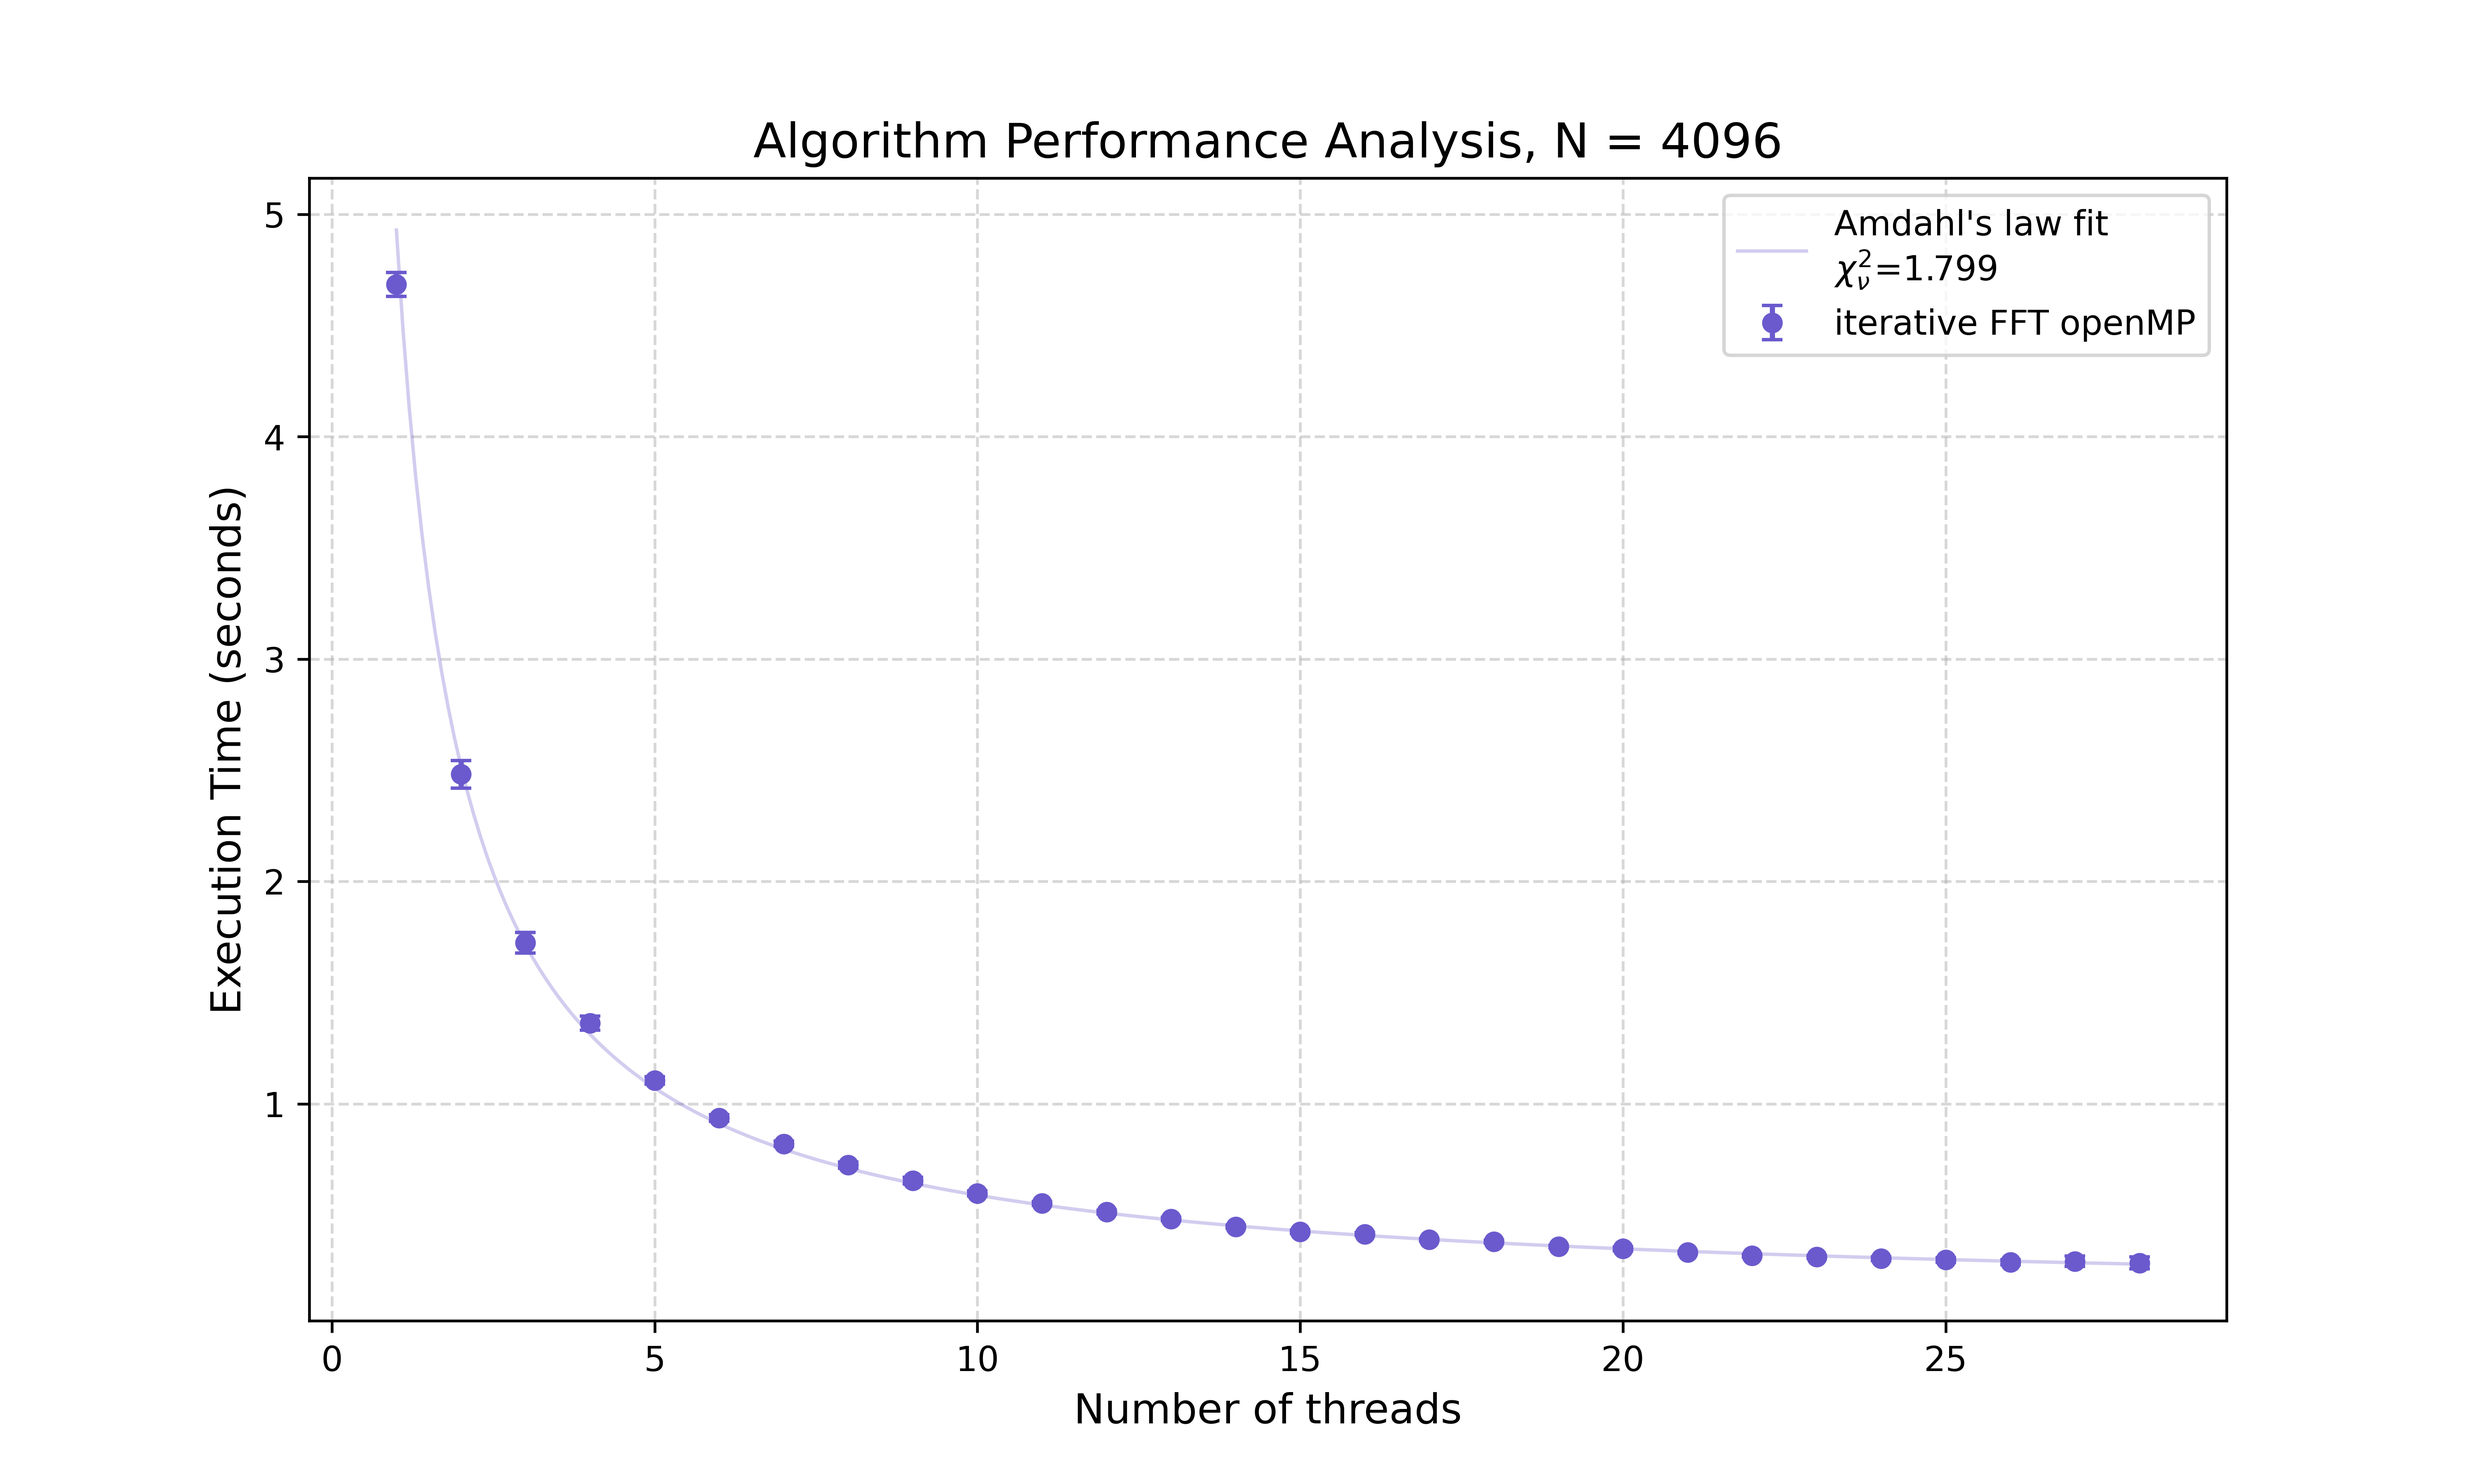
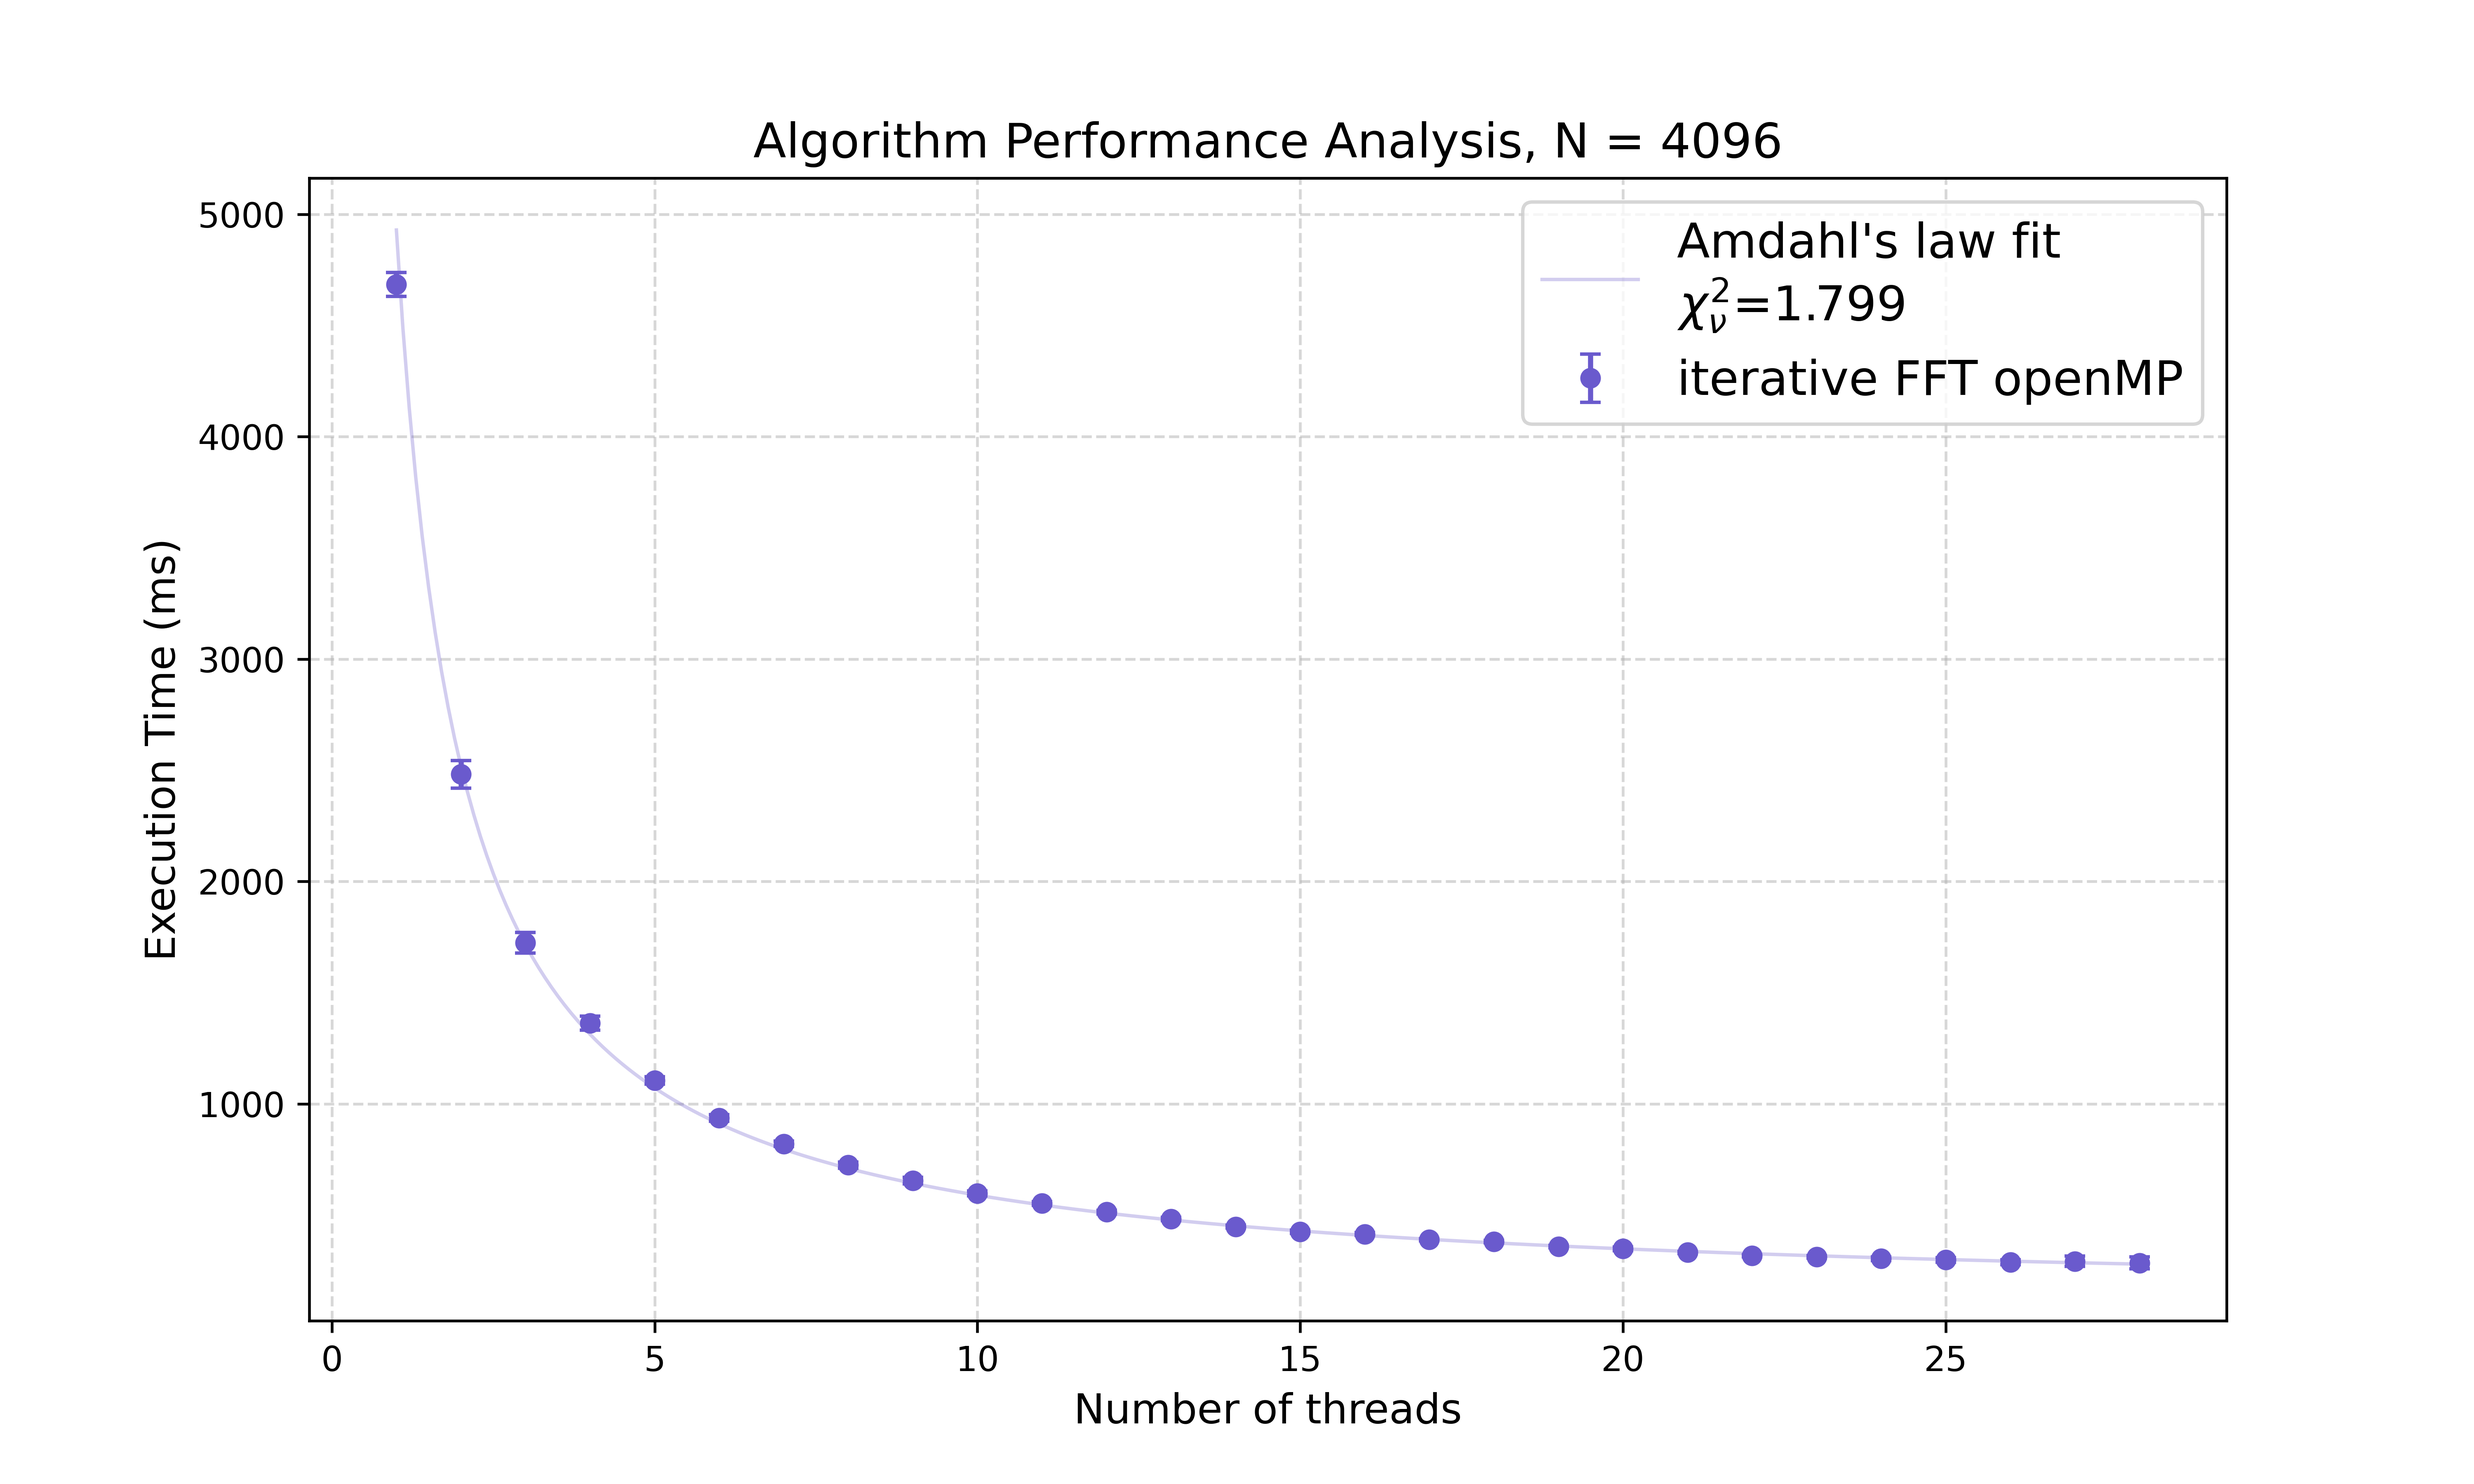
fix bench openmp time vs nth

diff --git a/plot/plt_benchmark_openmp_nth.py b/plot/plt_benchmark_openmp_nth.py
@@ -28,6 +28,9 @@ n_threads = np.unique(df['NThreads'])
 mean_time = df[df['N']==n].groupby('NThreads')['ExecutionTime'].mean().values
 std_time = df[df['N']==n].groupby('NThreads')['ExecutionTime'].std().values
 
+mean_time*=1e3
+std_time*=1e3
+
 print(np.min(mean_time), n_threads[np.argmin(mean_time)])
 
 (a, b), _, infodict, _, _ = scipy.optimize.curve_fit(model, n_threads, mean_time, sigma=std_time, full_output=True)
@@ -56,9 +59,9 @@ plt.plot(x, a / x + b,
 
 plt.title(f'Algorithm Performance Analysis, N = {n}', fontsize=14)
 plt.xlabel('Number of threads', fontsize=12)
-plt.ylabel('Execution Time (seconds)', fontsize=12)
+plt.ylabel('Execution Time (ms)', fontsize=12)
 # plt.xscale('log', base=2)
 plt.grid(True, linestyle='--', alpha=0.5)
-plt.legend()
+plt.legend(fontsize=14)
 	
 plt.savefig(f'benchmark_openmp_{n}.png', dpi=600)
